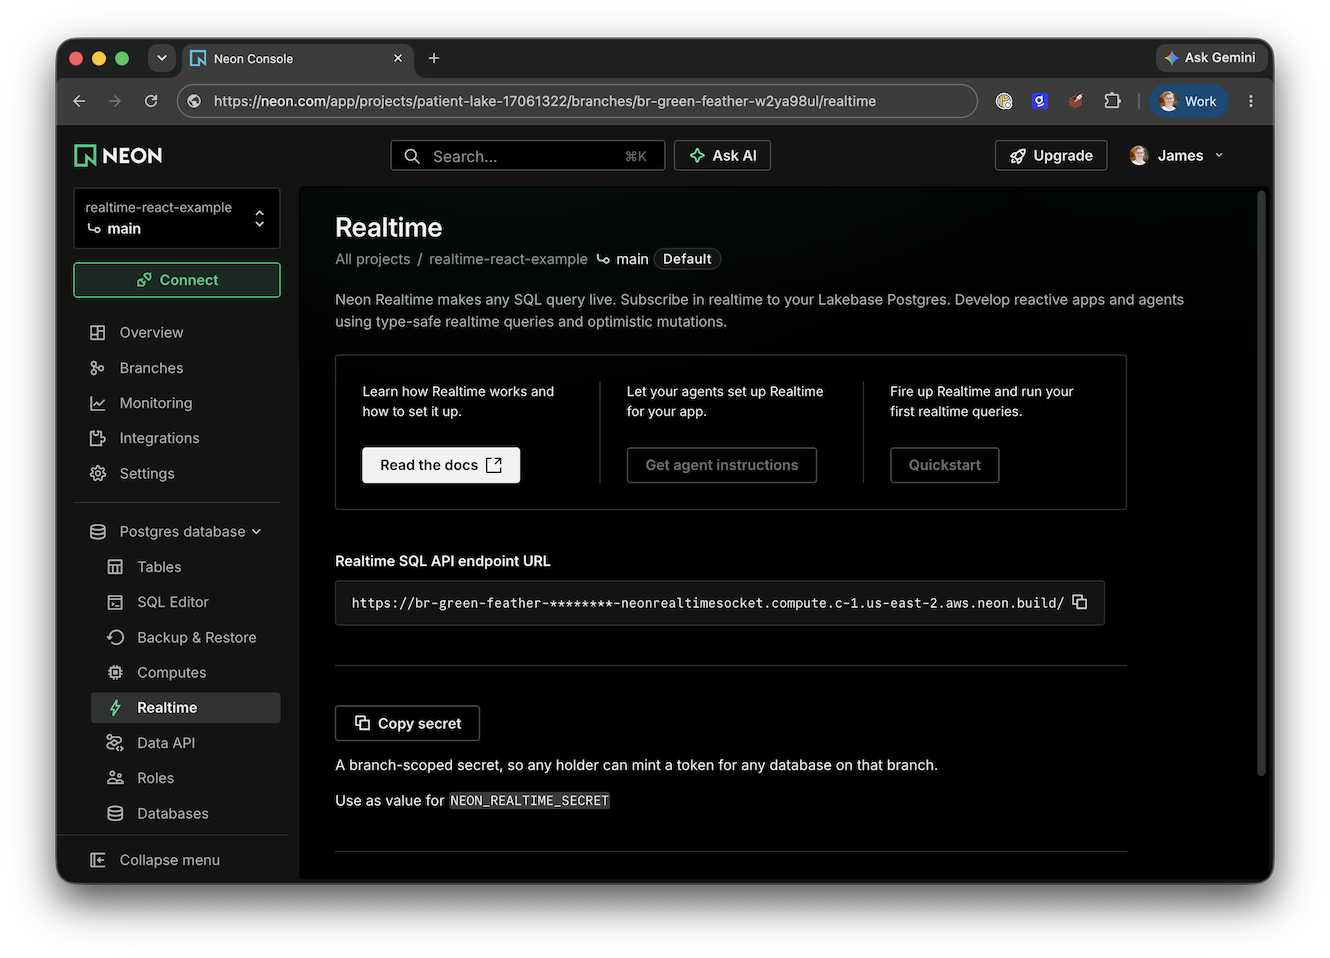
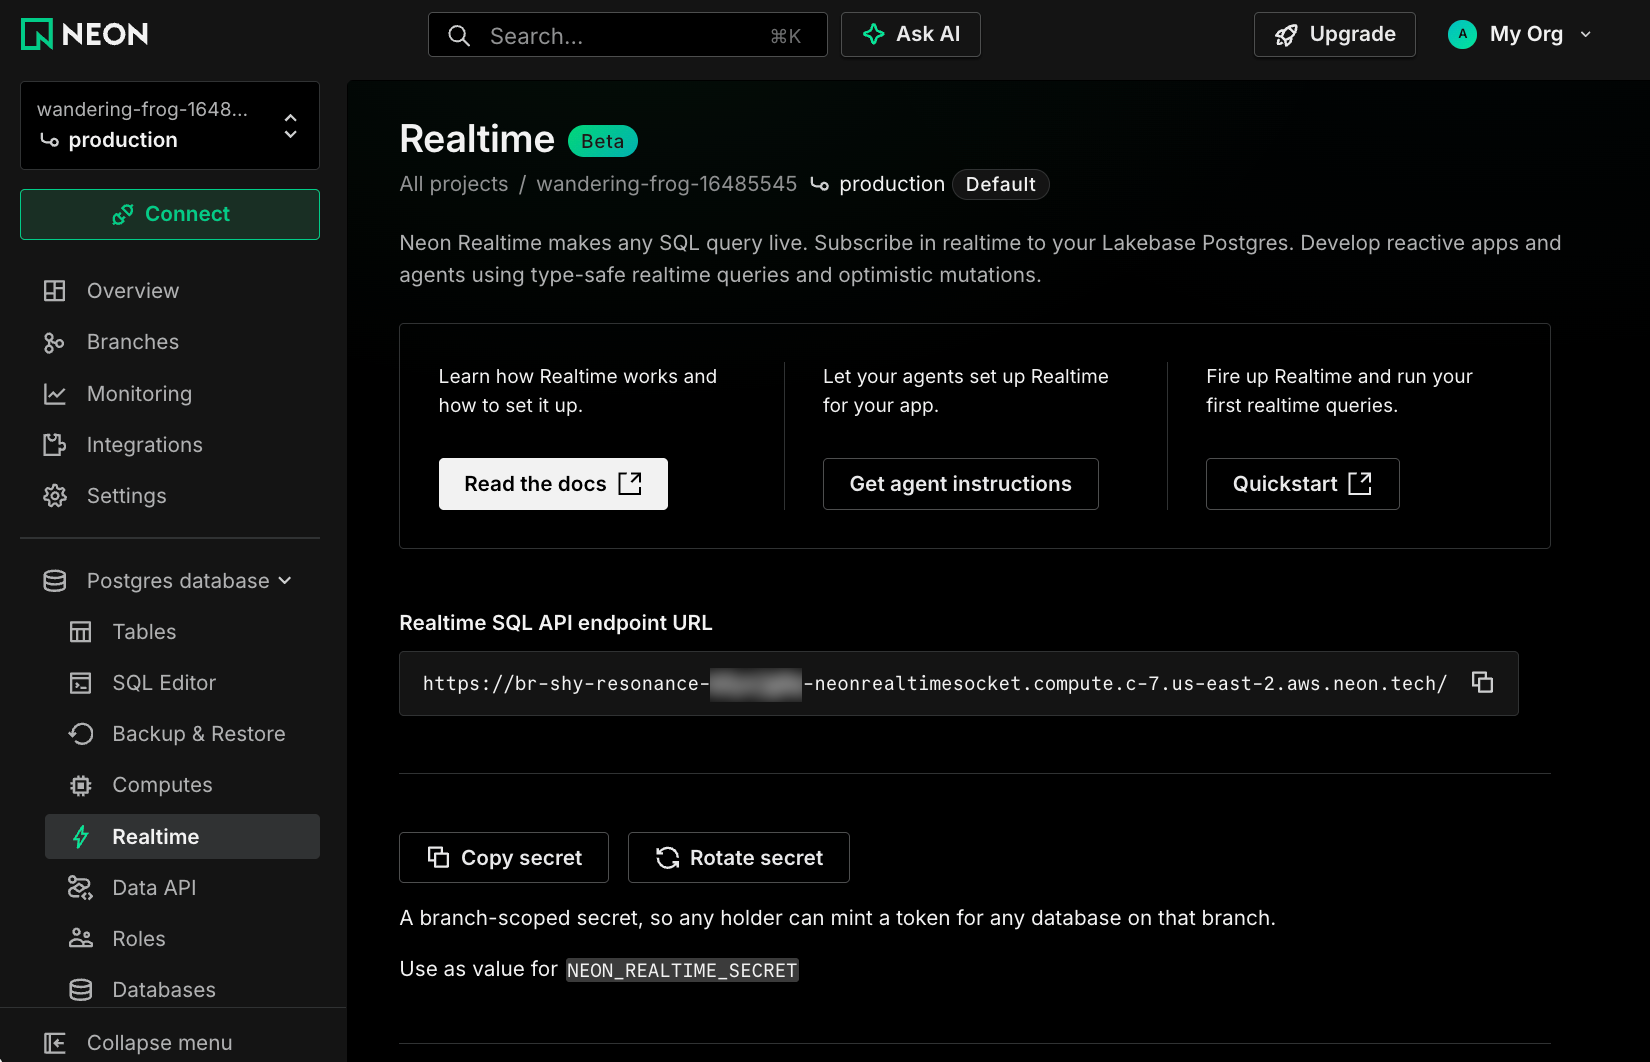
docs: update Realtime quickstart for the Console dashboard

diff --git a/content/docs/realtime/quickstart.md b/content/docs/realtime/quickstart.md
@@ -52,10 +52,10 @@ Click **Enable Realtime**. Once enabled, you'll see the Realtime page:
 
 ![Realtime enabled view](/docs/realtime/realtime-enabled.png)
 
-The page shows your:
+The page gives you the two values your app needs:
 
-- **NEON_REALTIME_URL**: your [Live SQL API](./how-it-works#live-sql-api) endpoint URL
-- **NEON_REALTIME_SECRET**: to use when [sealing queries](./guides/queries#sealing-queries)
+- **Realtime SQL API endpoint URL**: your [Live SQL API](./how-it-works#live-sql-api) endpoint. Use it as the value for `NEON_REALTIME_URL`.
+- **Copy secret**: copies the branch's shared secret, which you use when [sealing queries](./guides/queries#sealing-queries). The Console doesn't display the secret. Use it as the value for `NEON_REALTIME_SECRET`.
 
 ### Using the CLI
 
@@ -146,6 +146,15 @@ neon skills -s neon-realtime
     description="Copy this to your coding agent to get started with Realtime."
     buttonText="Copy prompt"
 />
+
+## Manage Realtime
+
+On the Realtime page in the Neon Console:
+
+- **Rotate secret** replaces the branch's shared secret. Once rotation finishes, the old secret stops working, so click **Copy secret** and update `NEON_REALTIME_SECRET` in every app that uses it.
+- **Disable Realtime** disconnects all Realtime clients on the branch and discards its shared secret.
+
+To do the same from the CLI, and for details on how rotation and disabling work, see [`neon realtime rotate-secret`](/docs/cli/realtime#rotate-secret) and [`neon realtime disable`](/docs/cli/realtime#disable).
 
 ## Next steps
 
